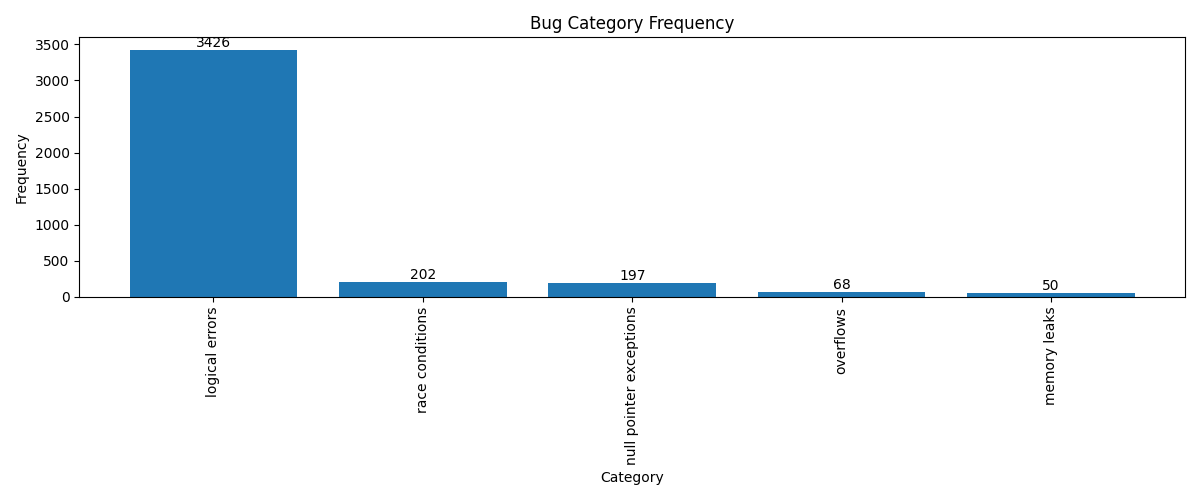
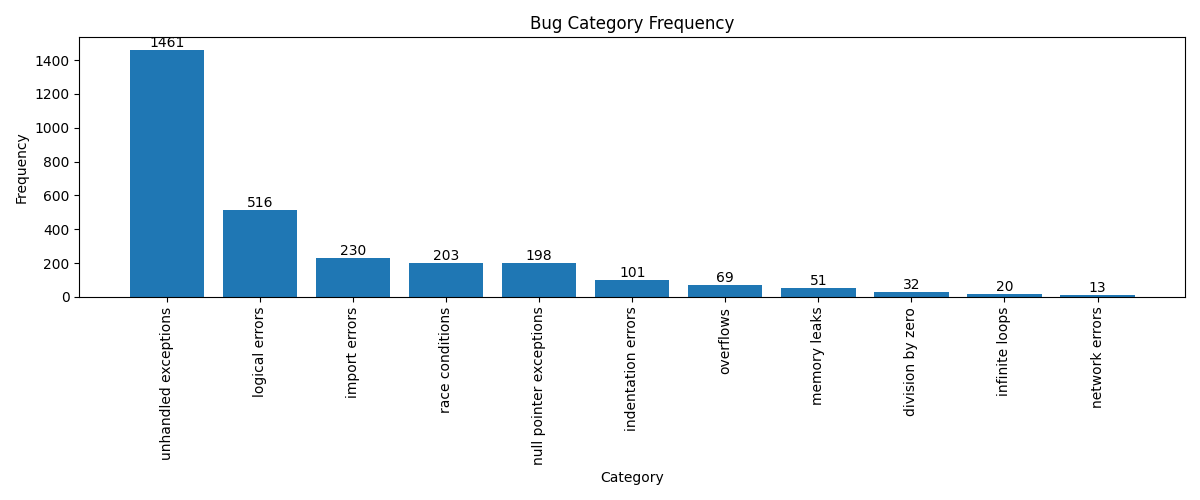
added a few more categories and tightend logical errors

diff --git a/src/main.py b/src/main.py
@@ -91,7 +91,13 @@ def categorized_bug_4():
                   'overflows': [' overflow '],
                   'race conditions': [' race ', 'mutex '," deadlock "], 
                   'memory leaks': ['memory leak', 'memory-leak'],
-                  'logical errors': [' edge case ', ' unexpected ',' typo ',' logic ',' if statement']
+                  'logical errors': [' edge case ',' logic '],
+                  'infinite loops': [' infinite loop ', 'infinite-loop'],
+                  'indentation errors': [' indentation ', ' indentation error '],
+                  'import errors': ['import error', 'importerror'],
+                  'division by zero': [' division by zero ', 'divide by zero', 'zero division'],
+                  'network errors': [' network error ', 'network error', 'networkerror'],
+                  'unhandled exceptions': ['exception '],
                   }
 
     categorized_messages = {key: [] for key in categories.keys()}
